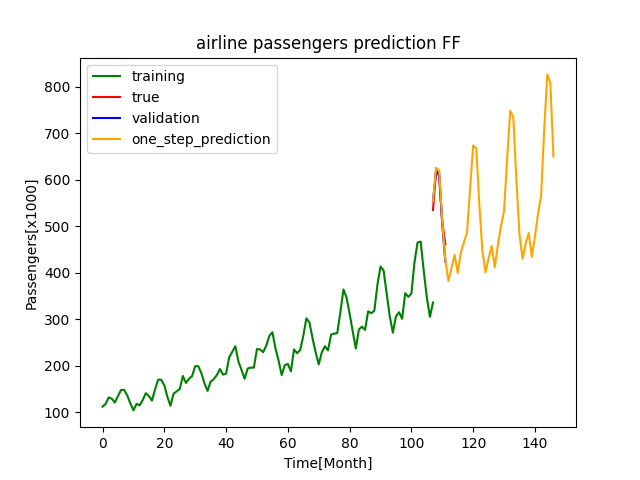
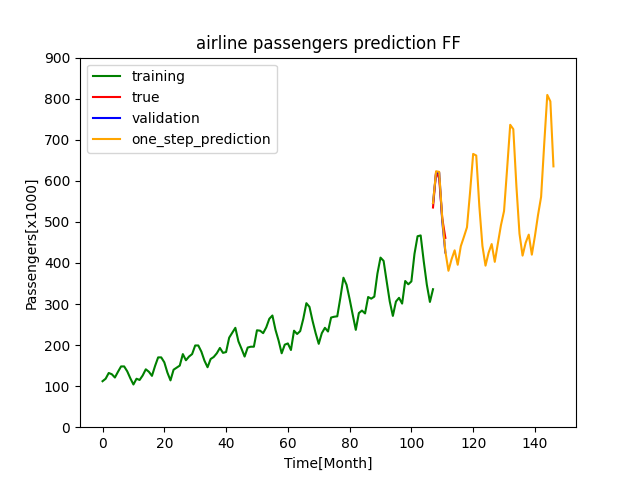
add name attributes and plot scaling to airline_passengers_keras_ff

diff --git a/TimeSeriesPrediction/2_UnivariatTimeSeriesForecast/AirlinePassengers/Keras/FF/airline_passengers_keras_ff.py b/TimeSeriesPrediction/2_UnivariatTimeSeriesForecast/AirlinePassengers/Keras/FF/airline_passengers_keras_ff.py
@@ -41,8 +41,13 @@ test_inputs, test_targets = create_timeseries(test, lookback)
 def create_LSTM_model(inputs, targets):
     model = tf.keras.Sequential()
     model.add(tf.keras.layers.Dense(units=50,
-                                    activation="relu"))
-    model.add(tf.keras.layers.Dense(units=1))
+                                    activation="relu",
+                                    kernel_initializer=tf.keras.initializers.RandomNormal(stddev=0.01),
+                                    bias_initializer=tf.keras.initializers.Zeros())
+    )
+    model.add(tf.keras.layers.Dense(units=1,
+                                    kernel_initializer=tf.keras.initializers.RandomNormal(stddev=0.01),
+                                    bias_initializer=tf.keras.initializers.Zeros()))
     model.compile(optimizer=tf.keras.optimizers.Adam(0.0001), loss='mean_squared_error')
     model.fit(inputs, targets, epochs=1000, batch_size=1)
     return model
@@ -76,6 +81,7 @@ def one_step_ahead_forecast(model, current_value, number_of_predictions):
 
 
 start_value = test_inputs[0]
+
 start_value_reshaped = start_value.reshape(1, start_value.shape[0])
 number_of_predictions = 40
 prediction_results = one_step_ahead_forecast(model, start_value_reshaped, number_of_predictions)
@@ -91,6 +97,8 @@ plt.plot(prediction["one_step_prediction"], color="orange", label="one_step_pred
 plt.title("airline passengers prediction FF")
 plt.xlabel("Time[Month]")
 plt.ylabel("Passengers[x1000]")
+plt.xticks(range(0, 150, 20))
+plt.yticks(range(0, 1000, 100))
 plt.legend(loc="upper left")
 plt.savefig("./airlinePassengers_keras_ff.png")
 plt.show()
